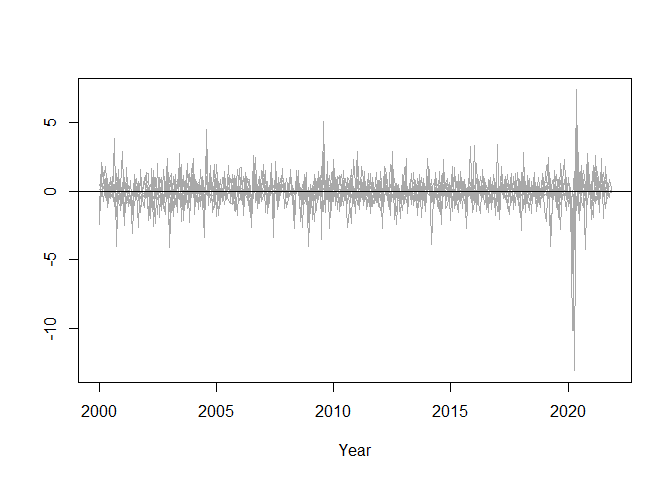
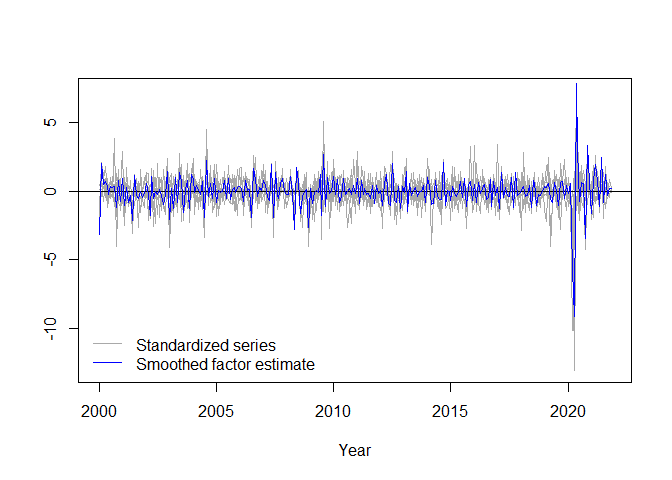
updated readme

Changed region(s): [[0.1562, 0.2812, 0.9062, 0.5], [0.1875, 0.6875, 0.4688, 0.7812]]

diff --git a/README.md b/README.md
@@ -49,11 +49,15 @@ The resulting estimates are shown in the plot below.
 
 To illustrate the weight decomposition, consider the estimate of the
 local level at time $t = 50$. Koopman and Harvey (2003) showed that the
-smoothed estimate can be written as
+smoothed estimate $\alpha_{t \mid T}$ can be expressed as
 
 $$
-\alpha _{t|T}=\sum_{j=1}^{T}w_{j}(\alpha _{t|T})y_{j}.
+\alpha_{t \mid T} = \sum_{j=1}^{T} w_j(\alpha_{t \mid T}) y_j,
 $$
+
+where $w_j(\alpha_{t \mid T})$ denotes the observation weight assigned
+to $y_j$. Missing values (`NA`) may be present in the data; in such
+cases, the corresponding weights are set to zero.
 
 Similarly, the filtered estimate can be written as
 
@@ -166,14 +170,13 @@ variables have been log-differenced, when necessary, to achieve
 stationarity. We assume a single latent factor following an AR(1)
 process.
 
-The standardized data series are shown in the plot below.
-
-<img src="man/figures/README-unnamed-chunk-8-1.png" alt="" width="100%" />
-
-We now use the `wex` function to decompose the final estimate of the
-latent factor into contributions from each observed variable.
+The standardized data series and the corresponding smoothed factor
+estimate are shown in the plot below.
 
 ``` r
+# Use the indicators dataset from wex
+df <- scale(wex::indicators[,-1])
+
 # Define the state-space matrices
 Zt <- matrix(c(0.37873307, 0.37438154, 0.37767322,
                  0.02433999, 0.36020426, 0.23031769,
@@ -199,6 +202,44 @@ GGt <- matrix(c(
   0, 0, 0, 0, 0, 0, 0, 0, 0, 0.1789897
 ), nrow = 10, ncol = 10, byrow = TRUE)
 
+# Computing the smoothed values of the latent factor
+
+fit_kf <- fkf(a0 = 0, 
+              P0 = diag(1e6, 1),
+              dt = matrix(0,1),
+              ct = rep(0,ncol(df)),
+              Tt = Tt,
+              Zt = Zt,
+              HHt = HHt,
+              GGt = GGt,
+              yt = t(df))
+
+fit_ks <- fks(fit_kf)
+
+
+df.ts <- ts(df,start=c(2000,1),frequency = 12)
+f_t <- ts(fit_ks$ahatt[1,])
+tsp(f_t) <- tsp(df.ts)
+
+
+plot(df.ts,plot.type = "single",col="darkgrey",xlab="Year",ylab="")
+abline(h=0,lty=1)
+lines(f_t, col="blue")
+legend(
+  "bottomleft",
+  legend = c("Standardized series", "Smoothed factor estimate"),
+  lwd = c(1, 1),
+  col = c("darkgrey", "blue"),
+  bty = "n"
+)
+```
+
+<img src="man/figures/README-unnamed-chunk-8-1.png" alt="" width="100%" />
+
+We now use the `wex` function to decompose the final estimate of the
+latent factor into contributions from each observed variable.
+
+``` r
 # Extract weights for the final observation
 wts <- wex(Tt=Tt,
         Zt=Zt,